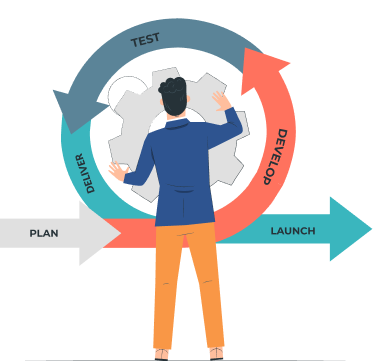
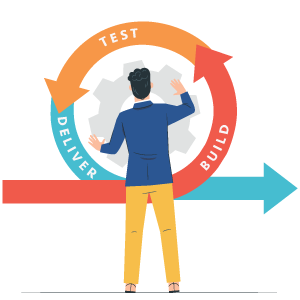
BugFixes
- Align Image in Center in "Connect Your Version Control" page in view.html
- updated image to visualize as per the theme
- Updated subtitle in info.json

diff --git a/widget/view.html b/widget/view.html
@@ -70,15 +70,15 @@
     </wz-step>
     <wz-step wz-title="Connect Version Control" wz-order="3" class="ingestion-modal-padding">
       <div class="full-width wz-step-height padding-bottom-md solutionpack-wizard-modal-body">
+        <div class="font-size-40 line-height-1 text-center"">Connect Your Version Control</div><br/>
         <div class="full-height overflow-auto">
             <div class="display-table fixed-table-layout full-height full-width">
             <div class="full-height display-table-cell vertical-align-middle">
               <div class="col-md-6 display-flex" style="justify-content: center">
-                  <img class="img-responsive step-image" src="widgets/installed/cicdConfiguration-1.0.0/images/versionControl.png">
+                  <img class="img-responsive padding-top-70 step-image" src="widgets/installed/cicdConfiguration-1.0.0/images/versionControl.png">
               </div>
               <div class="col-md-6 prerequisites-section padding-bottom-25 padding-left-0">
-                  <div class="font-size-40 line-height-1">Connector Your Version Control</div><br/>
-                  <div class="padding-right-30 margin-top-sm max-width-450px">
+                  <div class="margin-top-negative-10 padding-left-10">
                       <p class="font-size-14 margin-bottom-0">Review and add configurations to use for GitHub interactions.</p><br/>
                   </div>
                   <div data-ng-if="selectedConnector" class="margin-top-md padding-left-0 padding-right-0 connector-config-width" data-ng-include="'app/settings/connectorConfig.html'"> 
